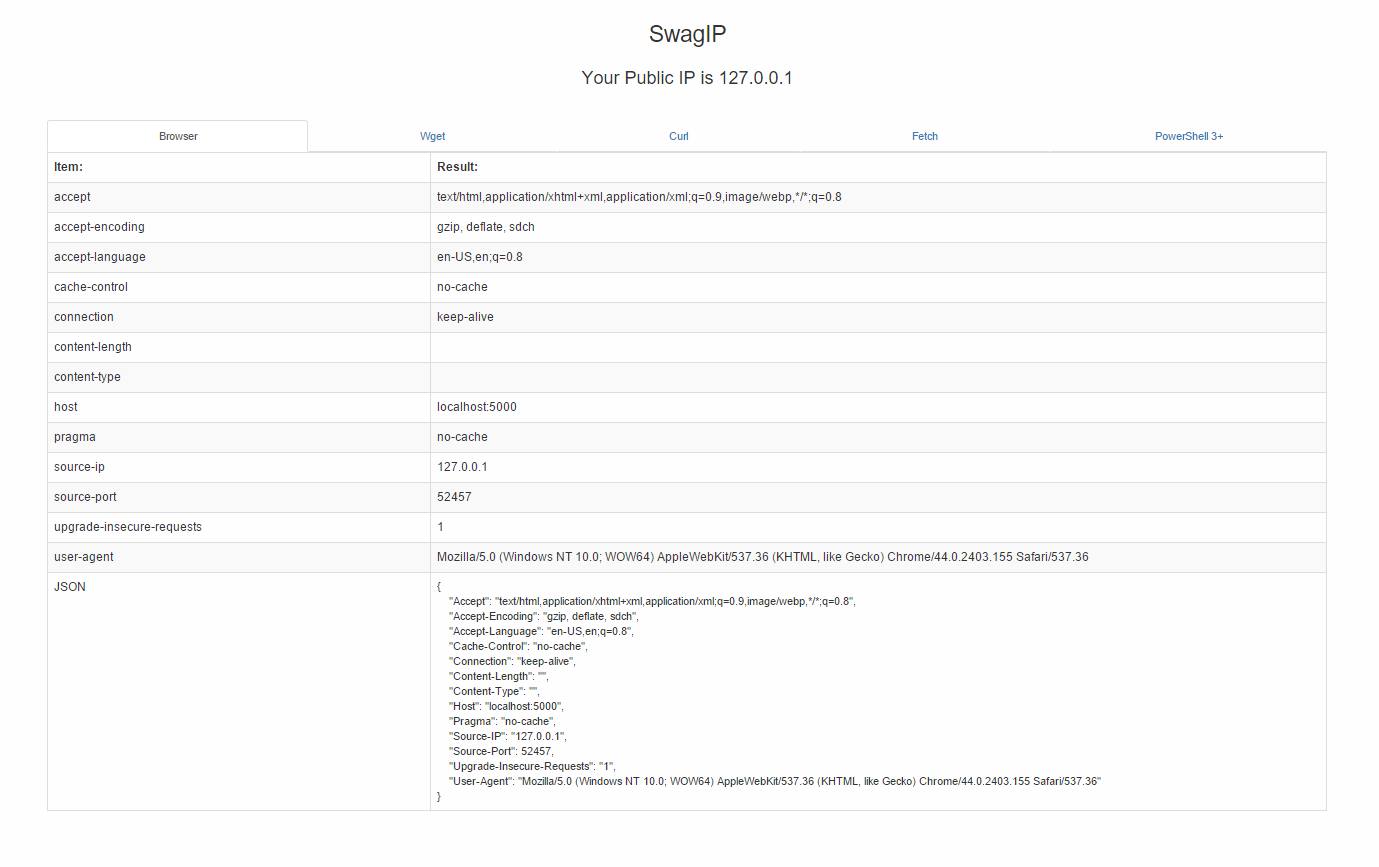
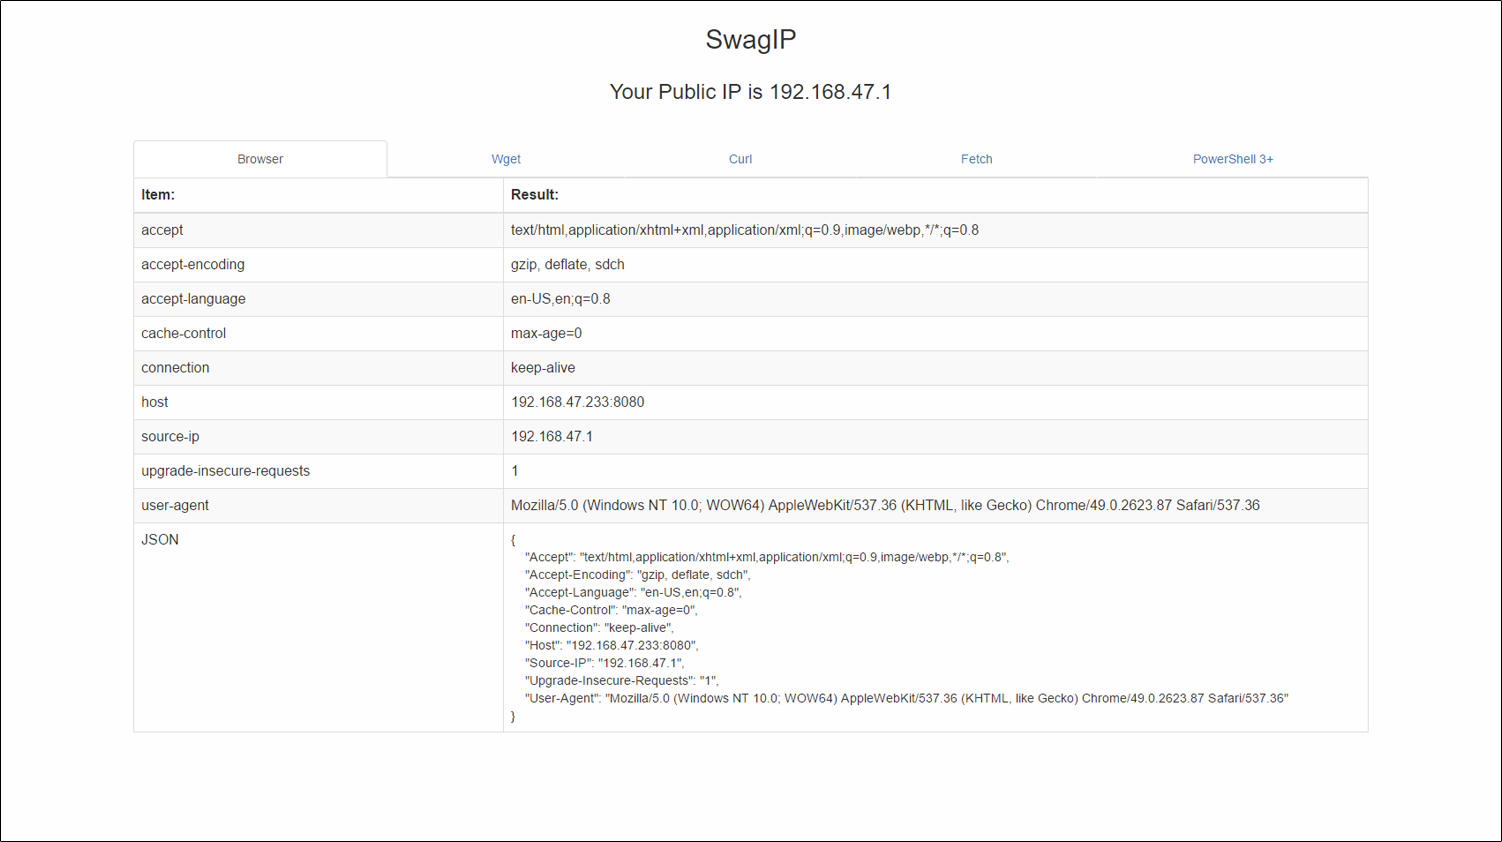
Added Vagrant support
* Added Vagrant support
* Removed reliance on supervisor
* Set Docker to use Ubuntu 14.04.4 instead of latest
* Updated requirements.txt
* Rebranded from Swagger to StackFocus
* Updated boostrap and jquery
* Fixed mobile view
* Changed HOST_NAME variable to ip.stackfocus.org
* Removed unnecessary -URI from PowerShell command
* New screenshots

diff --git a/swagip/templates/base.html b/swagip/templates/base.html
@@ -1,13 +1,16 @@
 <html>
 <head>
     {% if title %}<title>{{ title }}</title>{% endif %}
-    <link rel="stylesheet" type="text/css" href="https://maxcdn.bootstrapcdn.com/bootstrap/3.3.5/css/bootstrap.min.css">
-    <script src="https://code.jquery.com/jquery-2.1.4.min.js"></script>
-    <script src="https://maxcdn.bootstrapcdn.com/bootstrap/3.3.5/js/bootstrap.min.js"></script>
+    <meta charset="utf-8">
+    <meta http-equiv="X-UA-Compatible" content="IE=edge">
+    <meta name="viewport" content="width=device-width, initial-scale=1">
+    <link rel="stylesheet" type="text/css" href="https://maxcdn.bootstrapcdn.com/bootstrap/3.3.6/css/bootstrap.min.css">
+    <script src="https://code.jquery.com/jquery-2.2.2.min.js"></script>
+    <script src="https://maxcdn.bootstrapcdn.com/bootstrap/3.3.6/js/bootstrap.min.js"></script>
     <link rel="shortcut icon" href="{{ url_for('static', filename='favicon.ico') }}">
     <link rel="stylesheet" type="text/css" href="{{ url_for('static', filename='css/styles.css') }}">
     <script>
-    var HOSTNAME = "{{ hostname|safe }}";
+        var HOSTNAME = "{{ hostname|safe }}";
     </script>
     <script src="{{ url_for('static', filename='js/custom.js') }}"></script>
 </head>

diff --git a/swagip/static/js/custom.js b/swagip/static/js/custom.js
@@ -72,7 +72,7 @@ $(document).ready(function () {
     });
 
     $('#powershell').on('click', function (e) {
-        setHeaderTable('Invoke-RestMethod -URI http://', this);
+        setHeaderTable('Invoke-RestMethod http://', this);
         return false;
     });
 });

diff --git a/swagip/static/css/styles.css b/swagip/static/css/styles.css
@@ -15,10 +15,10 @@
 @media (min-width: 1200px) {
     .container-fluid {
         width:85%;
+        max-width: 1400px;
     }
 
     #jsonTd {
         font-size:0.9em !important;
-        white-space: pre;
     }
 }

diff --git a/config.py b/config.py
@@ -1,8 +1,7 @@
 """
-Author: Swagger.pro
+Author: StackFocus
 File: config.py
 Purpose: config for the app
 """
 
-HOST_NAME = 'ip.swagger.pro'
-DEBUG = True
+HOST_NAME = 'ip.stackfocus.org'

diff --git a/swagip/__init__.py b/swagip/__init__.py
@@ -1,5 +1,5 @@
 """
-Author: Swagger.pro
+Author: StackFocus
 File: __init__.py
 Purpose: initializes the application settings modules
 """

diff --git a/app.py b/app.py
@@ -1,6 +1,6 @@
 #!flask/bin/python
 """
-Author: Swagger.pro
+Author: StackFocus
 File: app.py
 Purpose: runs the app!
 """

diff --git a/swagip/utils.py b/swagip/utils.py
@@ -1,5 +1,5 @@
 """
-Author: Swagger.pro
+Author: StackFocus
 File: utils.py
 Purpose: General helper utils
 """

diff --git a/swagip/views.py b/swagip/views.py
@@ -1,5 +1,5 @@
 """
-Author: Swagger.pro
+Author: StackFocus
 File: views.py
 Purpose: routes for the app
 """
